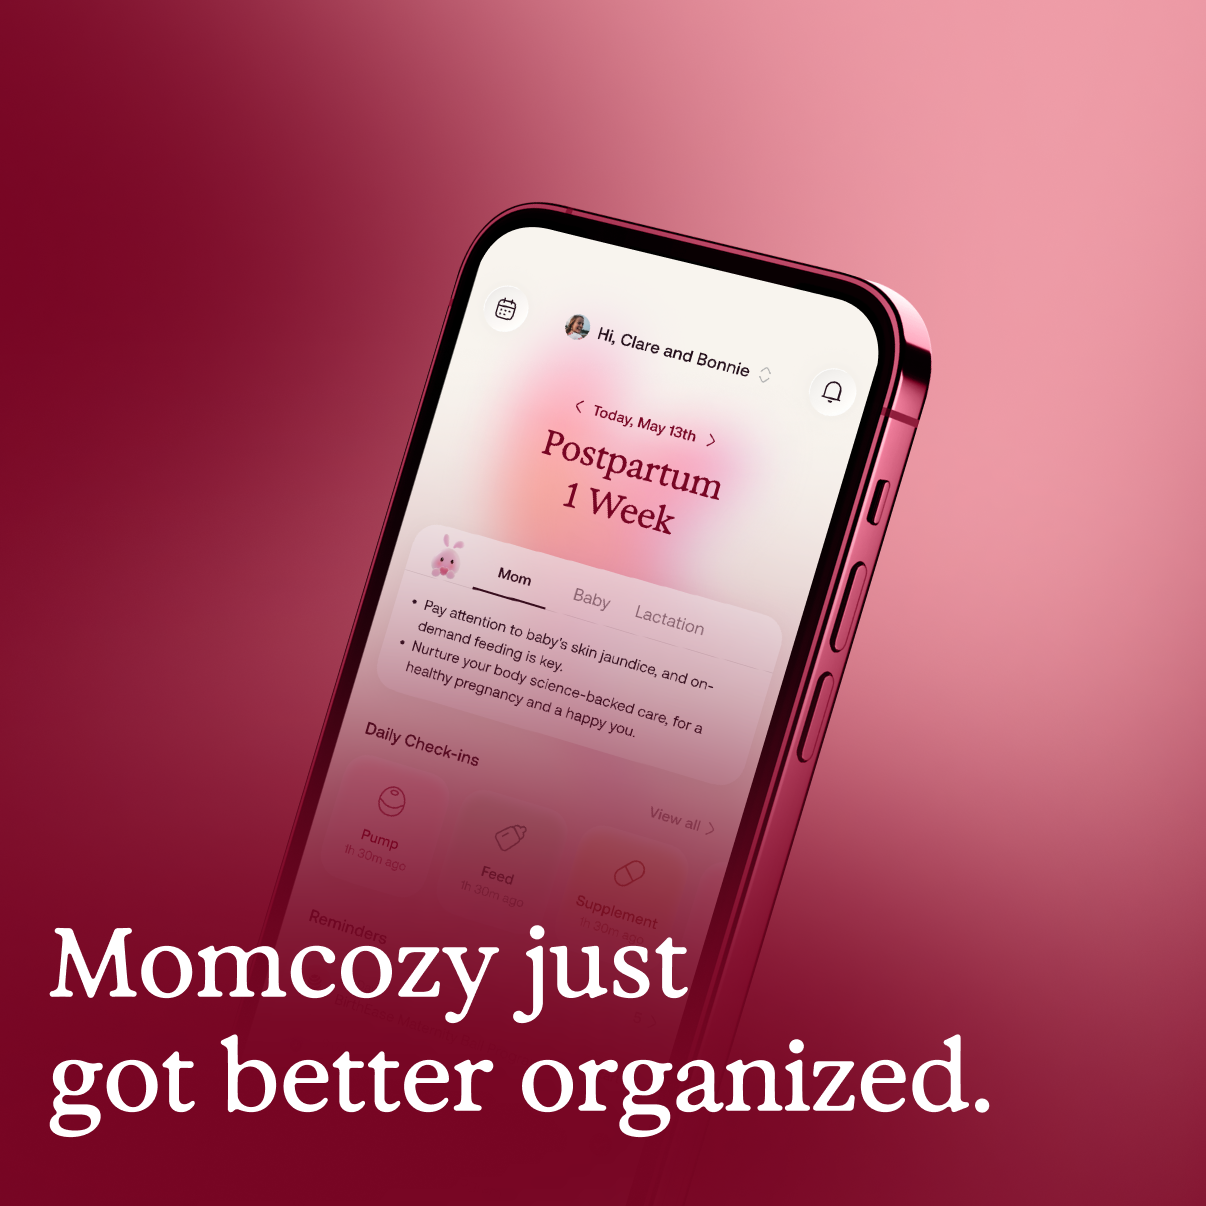
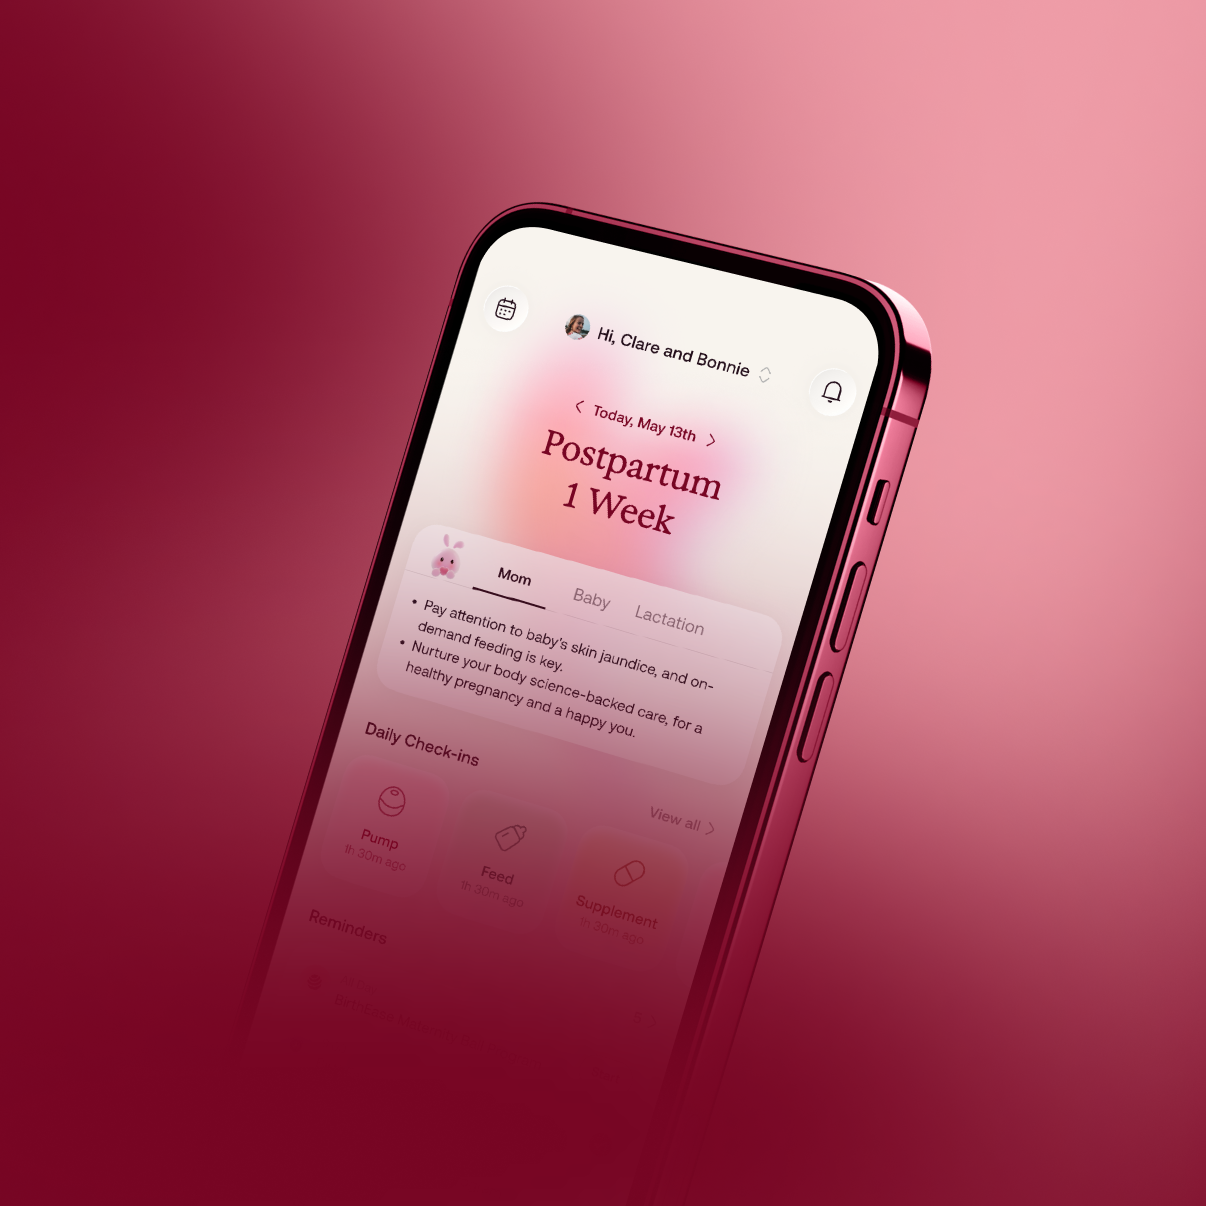
1.61

Changed region(s): [[0.0307, 0.767, 0.8284, 0.9511], [0.0307, 0.859, 0.1534, 0.9511]]

diff --git a/index.html b/index.html
@@ -17,7 +17,7 @@
           <button class="nav-circle" type="button" id="listBackButton" aria-label="Back">
             <img src="./assets/Icon_Arrow1.png" alt="" aria-hidden="true" />
           </button>
-          <!-- <h1>Momcozy just got better organized.</h1> -->
+          <h1>Momcozy just got better organized.</h1>
         </header>
 
         <section class="intro-copy" aria-label="Guide introduction">

diff --git a/styles.css b/styles.css
@@ -199,7 +199,6 @@ button {
   margin: 0;
   font-family: "Exposure[-10]", Georgia, "Times New Roman", serif;
   font-size: 33px;
-  font-weight: 400;
   font-synthesis: none;
   line-height: 1.08;
   letter-spacing: -0.2px;